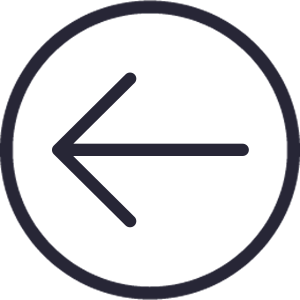
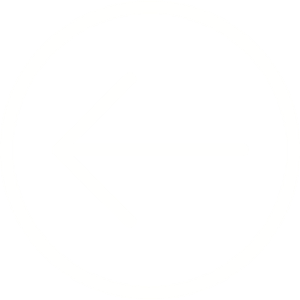
修bug

Changed region(s): [[0.0, 0.0, 1.0, 1.0], [0.15, 0.24, 0.84, 0.78]]

diff --git a/lolixl-modules/lolixl-ui-impl/src/main/resources/ui/css/default_theme/components.css b/lolixl-modules/lolixl-ui-impl/src/main/resources/ui/css/default_theme/components.css
@@ -41,11 +41,6 @@
 
 #content-panel-previous-button {
     -fx-text-fill: transparent;
-    -fx-background-image: "/ui/img/previous_button.png";
-}
-
-#content-panel-previous-button:hover {
-    -fx-background-image: "/ui/img/previous_button_hover.png";
 }
 
 #tile {

diff --git a/lolixl-modules/lolixl-ui-impl/src/main/java/org/to2mbn/lolixl/ui/impl/container/presenter/DefaultFramePresenter.java b/lolixl-modules/lolixl-ui-impl/src/main/java/org/to2mbn/lolixl/ui/impl/container/presenter/DefaultFramePresenter.java
@@ -7,7 +7,6 @@ import javafx.animation.TranslateTransition;
 import javafx.scene.effect.DropShadow;
 import javafx.scene.layout.Background;
 import javafx.scene.layout.Region;
-import javafx.scene.paint.Color;
 import javafx.stage.Stage;
 import javafx.util.Duration;
 import org.apache.felix.scr.annotations.Activate;
@@ -71,7 +70,7 @@ public class DefaultFramePresenter extends Presenter<DefaultFrameView> implement
 		view.sidebarPane.getChildren().add(sideBarPresenter.getView().rootContainer);
 		view.contentPane.getChildren().add(homeContentPresenter.getView().rootContainer);
 
-		view.shadowContainer.setEffect(new DropShadow());
+		view.rootContainer.setEffect(new DropShadow());
 	}
 
 	@Override
@@ -139,7 +138,7 @@ public class DefaultFramePresenter extends Presenter<DefaultFrameView> implement
 		}
 		PanelEntry entry = panels.poll();
 		Animation animation = generateAnimation(entry.view, true);
-		if (panels.size() == 1) {
+		if (panels.size() <= 0) {
 			animation.setOnFinished(event -> {
 				// 先隐藏面板
 				entry.view.setVisible(false);
@@ -158,22 +157,20 @@ public class DefaultFramePresenter extends Presenter<DefaultFrameView> implement
 
 	private ParallelTransition generateAnimation(Region pane, boolean reverse) {
 		// 移动动画
-		TranslateTransition tran = new TranslateTransition(Duration.seconds(1), pane);
-		double fromX = (view.contentPane.getLayoutX() + view.contentPane.getWidth() + view.sidebarPane.getWidth()) / 5;
+		TranslateTransition tran = new TranslateTransition(Duration.millis(200), pane);
+		double fromX = (view.contentPane.getLayoutX() + view.contentPane.getWidth() + view.sidebarPane.getWidth()) / 7;
 		double toX = view.sidebarPane.getLayoutX();
 		tran.setFromX(reverse ? toX : fromX);
 		tran.setToX(reverse ? fromX : toX);
 
 		// 渐变动画
-		FadeTransition fade = new FadeTransition(Duration.seconds(1), pane);
-		fade.setFromValue(reverse ? 0.5 : pane.getOpacity());
-		fade.setToValue(reverse ? pane.getOpacity() : 0.5);
+		FadeTransition fade = new FadeTransition(Duration.millis(100), pane);
+		fade.setFromValue(reverse ? pane.getOpacity() : 0.3);
+		fade.setToValue(reverse ? 0.3 : pane.getOpacity());
 
 		ParallelTransition parallel = new ParallelTransition(tran, fade);
-		parallel.setCycleCount(Animation.INDEFINITE);
 		return parallel;
 	}
-
 
 	private void makeDraggable() {
 		view.titleBarPane.setOnMousePressed(event -> {
@@ -195,33 +192,17 @@ public class DefaultFramePresenter extends Presenter<DefaultFrameView> implement
 	}
 
 	private void makeResizeable() {
-		// TODO: no need for ubuntu
-		view.shadowContainer.setOnMousePressed(event -> {
-			if (!isDragging && checkIfOnEdge(event.getSceneX(), event.getSceneY())) {
-				lastResizeX = event.getSceneX();
-				lastResizeY = event.getSceneY();
-			}
-		});
-		view.shadowContainer.setOnMouseDragged(event -> {
-			if (!isDragging && !checkMinSize()) {
-				double height = view.shadowContainer.getHeight();
-				double width = view.shadowContainer.getWidth();
-				view.shadowContainer.resize(width + event.getSceneX() - lastResizeX, height + event.getSceneY() - lastResizeY);
-			}
-		});
+		// TODO
 	}
 
 	private boolean checkIfOnEdge(double x, double y) {
-		if (x >= 3 && x <= view.shadowContainer.getWidth() - 3) {
-			return (y >= 3 && y <= 12) || (y >= view.shadowContainer.getHeight() - 12 && y <= view.shadowContainer.getHeight() - 3);
-		} else if (y >= 3 && y <= view.shadowContainer.getHeight() - 3) {
-			return (x >= 3 && x <= 12) || (x >= view.shadowContainer.getWidth() - 12 && x <= view.shadowContainer.getWidth() - 3);
+		// FIXME
+		if (x >= 3 && x <= view.rootContainer.getWidth() - 3) {
+			return (y >= 3 && y <= 12) || (y >= view.rootContainer.getHeight() - 12 && y <= view.rootContainer.getHeight() - 3);
+		} else if (y >= 3 && y <= view.rootContainer.getHeight() - 3) {
+			return (x >= 3 && x <= 12) || (x >= view.rootContainer.getWidth() - 12 && x <= view.rootContainer.getWidth() - 3);
 		}
 		return false;
-	}
-
-	private boolean checkMinSize() {
-		return view.shadowContainer.getHeight() <= view.shadowContainer.getMinHeight() || view.shadowContainer.getWidth() <= view.shadowContainer.getMinWidth();
 	}
 
 	private static class PanelEntry {

diff --git a/lolixl-modules/lolixl-ui-impl/src/main/java/org/to2mbn/lolixl/ui/impl/component/view/panel/PanelView.java b/lolixl-modules/lolixl-ui-impl/src/main/java/org/to2mbn/lolixl/ui/impl/component/view/panel/PanelView.java
@@ -2,8 +2,8 @@ package org.to2mbn.lolixl.ui.impl.component.view.panel;
 
 import javafx.fxml.FXML;
 import javafx.fxml.FXMLLoader;
-import javafx.scene.control.Button;
 import javafx.scene.control.Label;
+import javafx.scene.image.Image;
 import javafx.scene.image.ImageView;
 import javafx.scene.layout.BorderPane;
 import javafx.scene.layout.HBox;
@@ -15,11 +15,14 @@ import java.io.IOException;
 public class PanelView extends BorderPane {
 	private static final String LOCATION_OF_FXML = "/ui/fxml/panel/panel.fxml";
 
+	private static final Image PREVIOUS_BUTTON_IMG = new Image("/ui/img/previous_button.png");
+	private static final Image PREVIOUS_BUTTON_HOVER_IMG = new Image("/ui/img/previous_button_hover.png");
+
 	@FXML
 	public HBox headerContainer;
 
 	@FXML
-	public Button previousButton;
+	public ImageView previousButton;
 
 	@FXML
 	public ImageView iconView;
@@ -43,20 +46,23 @@ public class PanelView extends BorderPane {
 
 	private void initComponent() {
 		FXUtils.checkFxThread();
+		previousButton.setImage(PREVIOUS_BUTTON_IMG); // TODO: css
+		previousButton.setOnMouseMoved(event -> previousButton.setImage(PREVIOUS_BUTTON_HOVER_IMG));
+		previousButton.setOnMouseExited(event -> previousButton.setImage(PREVIOUS_BUTTON_IMG));
+		previousButton.setOnMouseClicked(event -> panel.hide());
 		titleLabel.setLabelFor(iconView);
 		titleLabel.textProperty().bind(panel.titleProperty());
 		paneContainer.centerProperty().bind(panel.contentProperty());
 		iconView.imageProperty().bind(panel.iconProperty());
 		iconView.imageProperty().addListener(((observable, oldValue, newValue) -> checkEmptyIcon()));
 		checkEmptyIcon();
-		previousButton.setOnAction(event -> panel.hide());
 	}
 
 	private void checkEmptyIcon() {
 		if (iconView.getImage() == null) {
-			paneContainer.getChildren().remove(iconView);
+			headerContainer.getChildren().remove(iconView);
 		} else if (!paneContainer.getChildren().contains(iconView)) {
-			paneContainer.getChildren().add(iconView);
+			headerContainer.getChildren().add(iconView);
 		}
 	}
 }

diff --git a/lolixl-modules/lolixl-ui-impl/src/main/java/org/to2mbn/lolixl/ui/impl/MainScene.java b/lolixl-modules/lolixl-ui-impl/src/main/java/org/to2mbn/lolixl/ui/impl/MainScene.java
@@ -36,7 +36,7 @@ public class MainScene {
 		Scene scene = AsyncUtils.asyncRun(() -> {
 
 			LOGGER.fine("Creating main scene");
-			Scene m_scene = new Scene(defaultFramePresenter.getView().shadowContainer);
+			Scene m_scene = new Scene(defaultFramePresenter.getView().rootContainer);
 			Thread.currentThread().setContextClassLoader(getClass().getClassLoader()); // 防止StyleManager智障读不到CSS
 			m_scene.getStylesheets().add(DEFAULT_METRO_STYLE_SHEET);
 			stage.setScene(m_scene);

diff --git a/lolixl-modules/lolixl-ui-impl/src/main/java/org/to2mbn/lolixl/ui/impl/container/view/DefaultFrameView.java b/lolixl-modules/lolixl-ui-impl/src/main/java/org/to2mbn/lolixl/ui/impl/container/view/DefaultFrameView.java
@@ -7,9 +7,6 @@ import org.to2mbn.lolixl.ui.container.view.View;
 
 public class DefaultFrameView extends View {
 	@FXML
-	public StackPane shadowContainer;
-
-	@FXML
 	public BorderPane rootContainer;
 
 	@FXML
